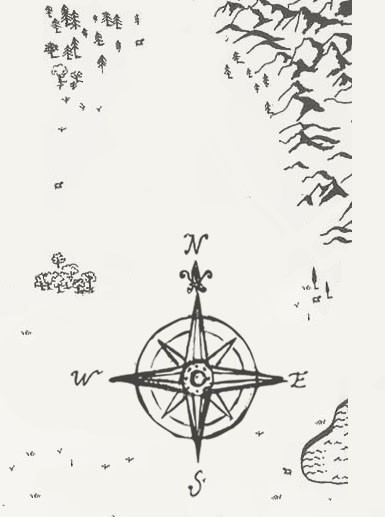
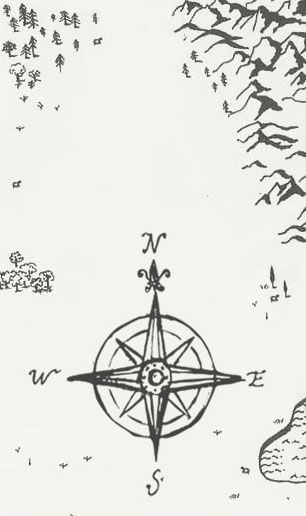
tweaking background image

diff --git a/client/components/HomePage.js b/client/components/HomePage.js
@@ -60,7 +60,9 @@ export const HomePageView = props => {
 
         backgroundPosition: 'center',
         backgroundRepeat: 'no-repeat',
-        backgroundSize: '124% 100vh'
+        backgroundSize: 'auto 96.5vh',
+        backgroundColor: '#F4F3EE',
+        filte
       }}
     >
       <Box
@@ -70,12 +72,7 @@ export const HomePageView = props => {
         justifyContent="center"
       >
         {/* // find all journeys  */}
-        <Grid
-          container
-          direction="column"
-          // justify="flex-start"
-          alignItems="center"
-        >
+        <Grid container direction="column" alignItems="center">
           <Button
             variant="contained"
             size="large"
